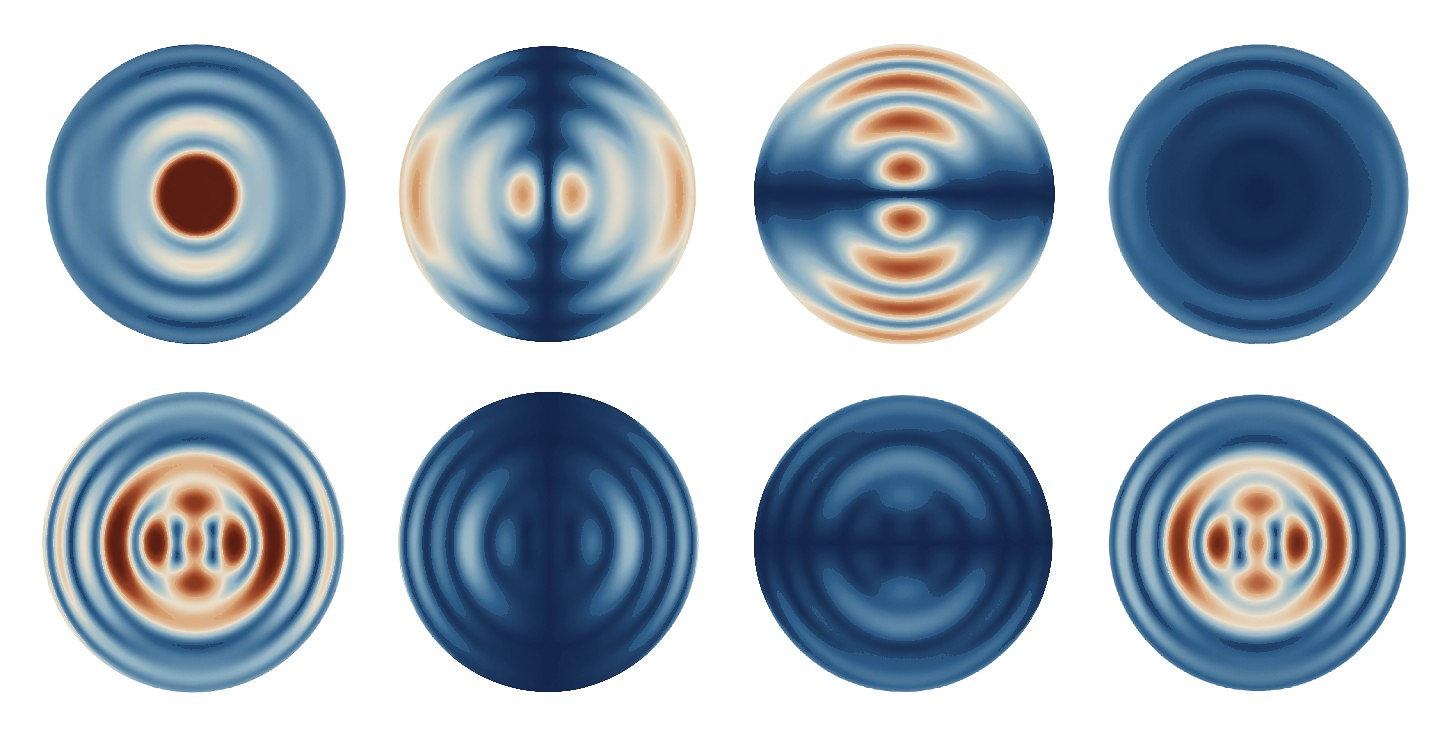
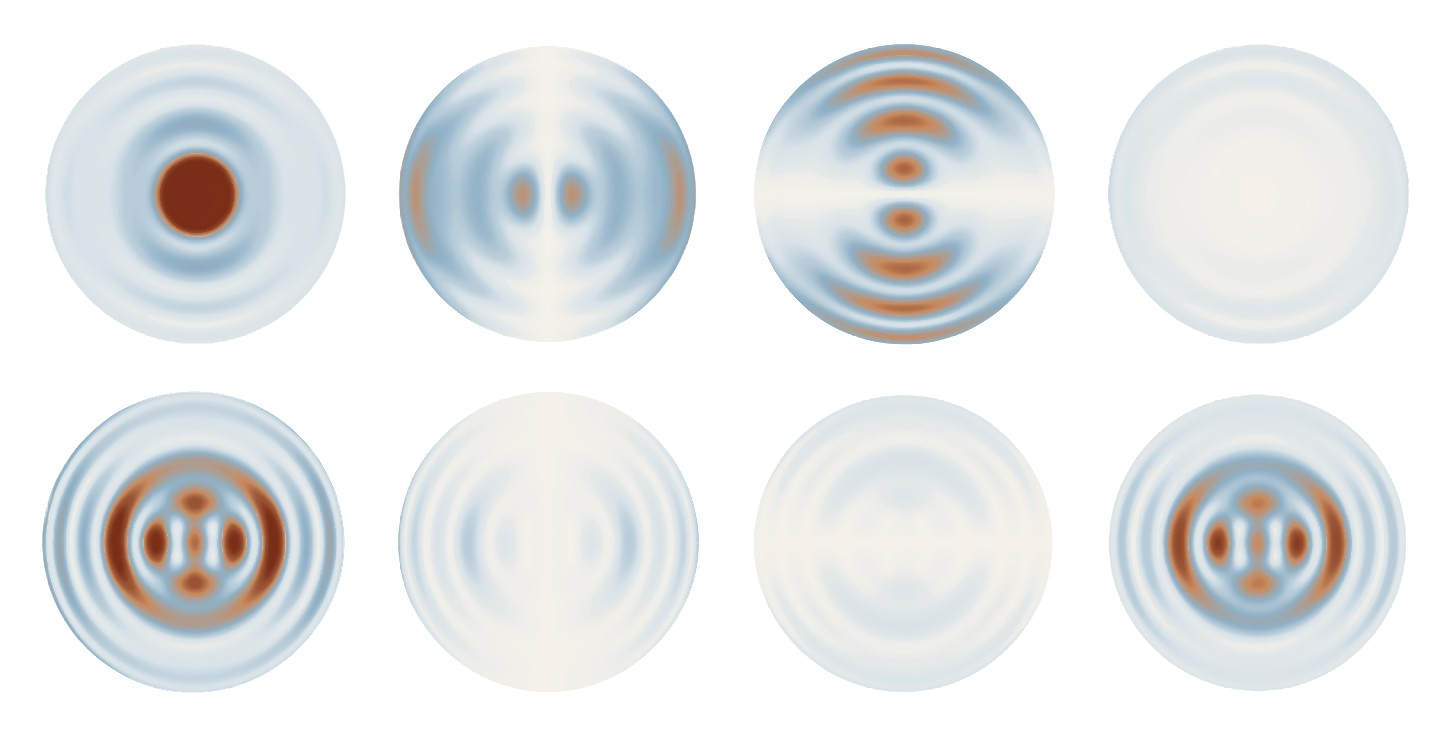
Research: circles mostly light (cream/pale blue), rust at the peaks

diff --git a/research.html b/research.html
@@ -26,9 +26,9 @@
 </header>
 
 <!-- Research: three sections. Placeholders until there is content. -->
-<!-- eight simulated patterns, recoloured in Jupiter's blues, creams and rusts -->
+<!-- eight simulated patterns, recoloured light like ink: cream and pale blue where quiet, rust at the peaks -->
 <figure class="plate">
-  <img src="assets/circles-jupiter.jpg" width="1448" height="736" alt="Eight circular simulated patterns in navy, cream and rust: rings, lobes and fringes, arranged in two rows of four.">
+  <img src="assets/circles-jupiter.jpg" width="1448" height="736" alt="Eight circular simulated patterns in cream, pale blue and rust: rings, lobes and fringes, arranged in two rows of four.">
   <figcaption>L. Wang, &ldquo;Optimal position detection of an optically levitated Mie particle.&rdquo;</figcaption>
 </figure>
 
